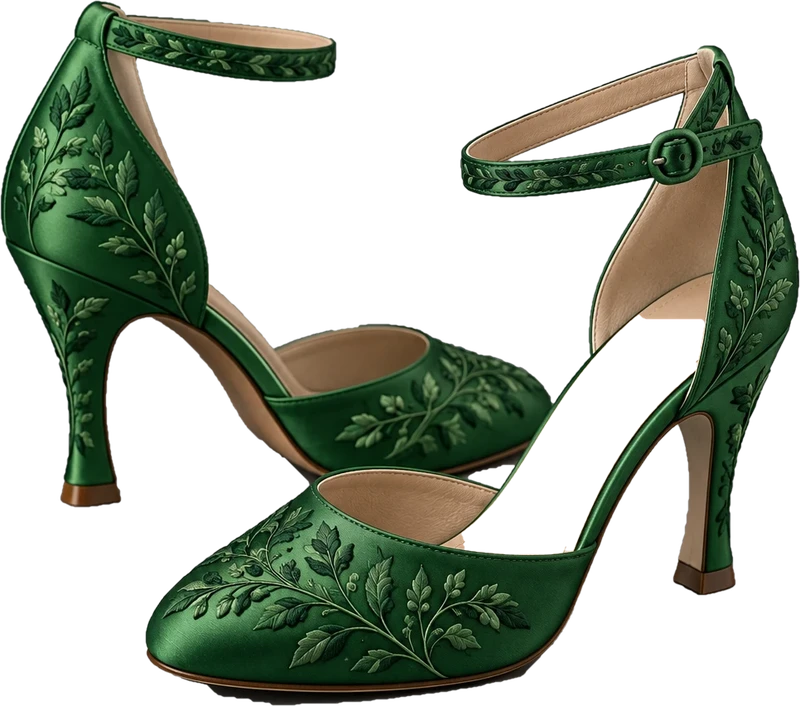
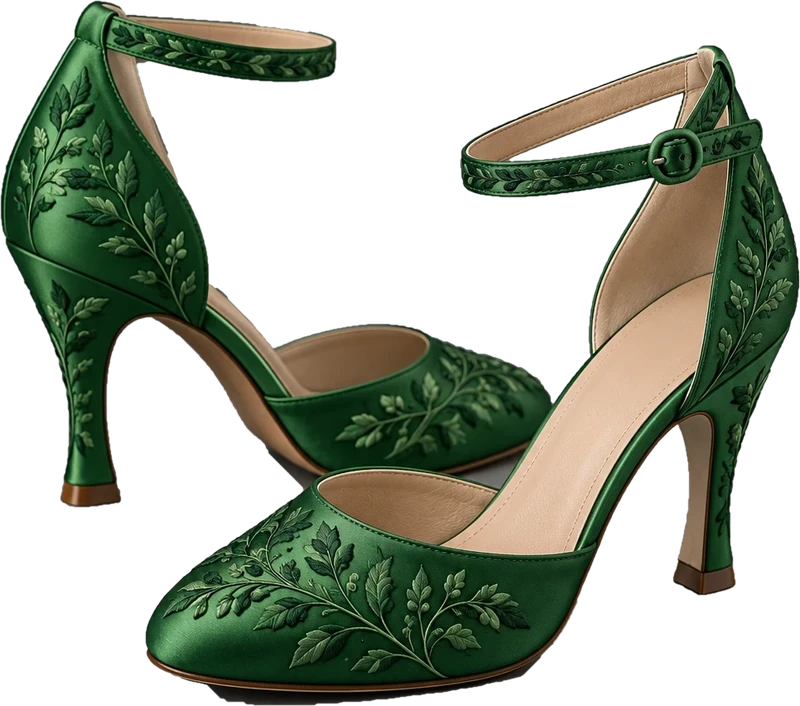
Lady: Innensohle des linken Schuhs nicht mehr durchsichtig (1.90.1)

diff --git a/index.html b/index.html
@@ -1855,7 +1855,7 @@ html.theme-retreat .shelf-orchid{ position:absolute; left:0; bottom:-13.8%; heig
 
 <script>
 /* Bump on every published update, so it's visible at a glance whether the newest version is loaded. */
-const APP_VERSION = '1.90.0';
+const APP_VERSION = '1.90.1';
 /* Design (since 1.80.0, see the small script in <head>): in "Business" (BIZ) the gold paper icons are swapped for plain line
    icons (img/icons-rl/*.svg) wherever they appear – also in everything drawn later – so the rest of the code stays as it is. */
 // A Lady's Conservatory (1.84.0, named so since 1.86.1; key 'retreat' and RETREAT stay): light, cream and forest green; until its own pictures come it uses those of A Gentleman's Study (with the

diff --git a/CLAUDE.md b/CLAUDE.md
@@ -125,7 +125,7 @@ Der Nutzer ist kein Entwickler. Erkläre Schritte einfach und auf Deutsch.
 - Veröffentlicht über **GitHub Pages** aus diesem Repository (Branch `main`, Ordner `/`):
   https://k9vk58y99f-max.github.io/k9vk58y99f-max.github.io-ewolfe-app-/
 - Ein Commit + Push auf `main` ist die Veröffentlichung; nach 1–2 Minuten ist es live.
-- Bei jeder Änderung `APP_VERSION` erhöhen (aktuell `1.90.0`) und `APP_BUILD` anpassen.
+- Bei jeder Änderung `APP_VERSION` erhöhen (aktuell `1.90.1`) und `APP_BUILD` anpassen.
   Die Version steht unten in der App.
 
 ## Neu seit 1.55.0 (iPad, Wischen, Tagebuch, Sticker, Impulskarten)
